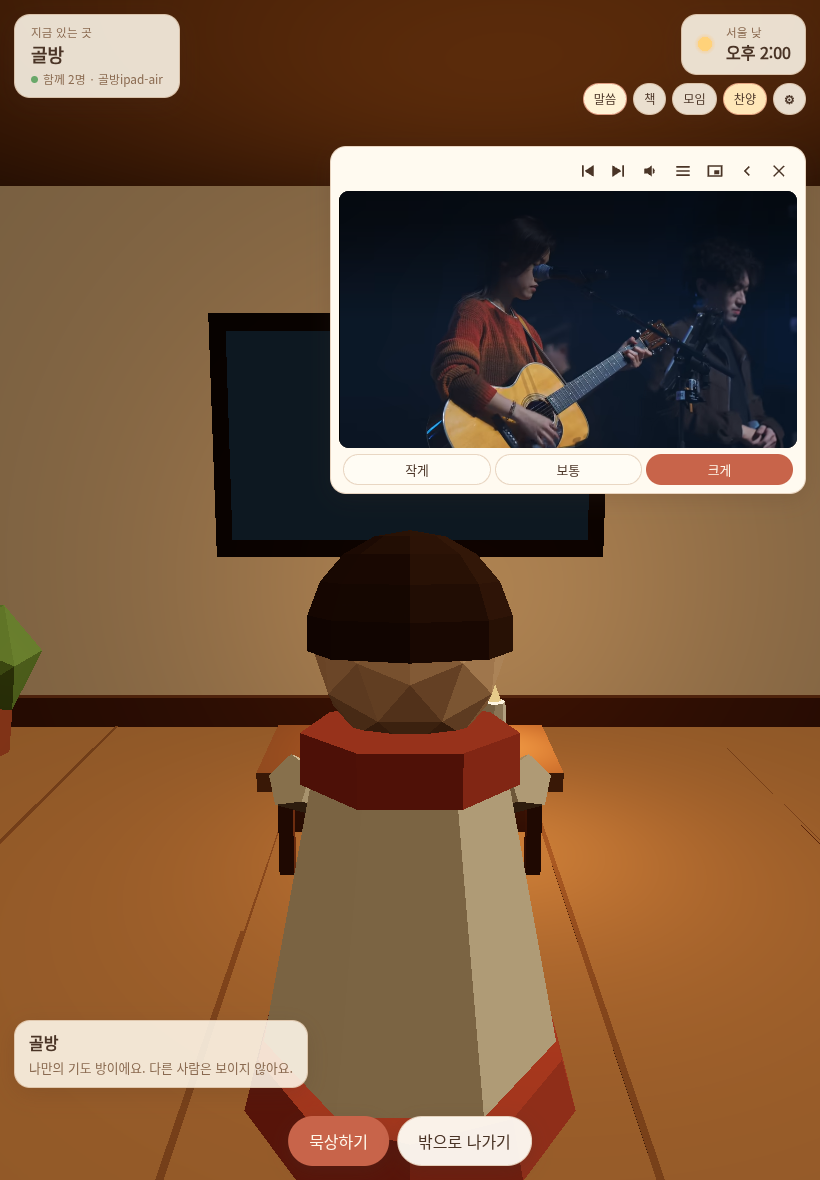
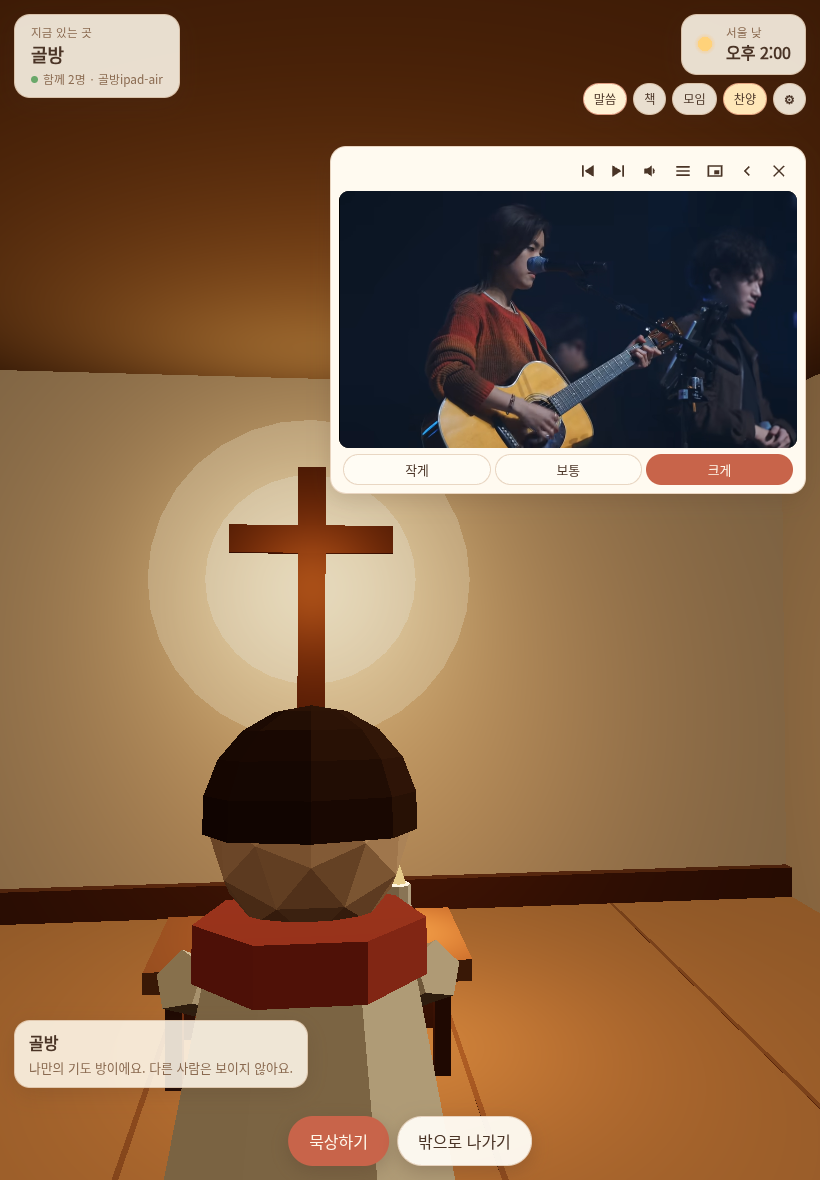
feat(closet): wooden cross with warm halo replaces the wall TV in 골방
Portrait screens aim the room camera higher and slightly right so the cross
shows above the avatar and beside the docked worship player.

Claude-Session: https://claude.ai/code/session_01QsWPXXpkTAwZLNvoEFaFKZ

diff --git a/client/src/world/Interior.ts b/client/src/world/Interior.ts
@@ -7,7 +7,7 @@ const lam = (color: number, extra: THREE.MeshLambertMaterialParameters = {}) =>
 
 /**
  * 골방: a small private room rendered as its own scene, so nobody else is in
- * it. The player sits on a cushion facing a small wall screen (the worship
+ * it. The player sits on a cushion facing a wooden cross on the wall (the worship
  * panel is the DOM overlay); a candle and the window follow the time of day.
  */
 export class Interior {
@@ -22,6 +22,9 @@ export class Interior {
   private yaw = 0;
   private pitch = 0.32;
   private readonly geometries: THREE.BufferGeometry[] = [];
+  /** Portrait phones: aim higher and a little to the right so the cross sits
+   *  above the avatar's head and left of the docked worship player. */
+  private portrait = false;
 
   constructor() {
     const s = this.scene;
@@ -51,9 +54,21 @@ export class Interior {
     add(new THREE.BoxGeometry(0.04, 0.95, 1.25), this.windowPane, 2.93, 1.75, -0.6);
     add(new THREE.BoxGeometry(0.05, 0.95, 0.05), lam(PALETTE.woodDark), 2.92, 1.75, -0.6);
 
-    // Wall screen (the actual video lives in the DOM panel).
-    add(new THREE.BoxGeometry(2.3, 1.4, 0.08), lam(0x3b2c22), 0, 1.75, -2.93);
-    add(new THREE.BoxGeometry(2.1, 1.2, 0.02), new THREE.MeshBasicMaterial({ color: 0x1f2a33 }), 0, 1.75, -2.88);
+    // Wooden cross on the front wall, with a soft warm halo behind it.
+    // (The worship video itself lives in the DOM panel, not on the wall.)
+    const halo = add(
+      new THREE.CircleGeometry(0.95, 32),
+      new THREE.MeshBasicMaterial({ color: 0xffe2a8, transparent: true, opacity: 0.32, depthWrite: false }),
+      0, 1.95, -2.94,
+    );
+    halo.renderOrder = 1;
+    add(new THREE.CircleGeometry(0.62, 32), new THREE.MeshBasicMaterial({ color: 0xfff1cf, transparent: true, opacity: 0.35, depthWrite: false }), 0, 1.95, -2.935);
+    const crossWood = lam(0x7a4e2c);
+    add(new THREE.BoxGeometry(0.16, 1.7, 0.1), crossWood, 0, 1.75, -2.88); // upright
+    add(new THREE.BoxGeometry(0.95, 0.16, 0.1), crossWood, 0, 2.18, -2.87); // crossbeam
+    const crossLight = new THREE.PointLight(0xffd59a, 1.1, 3.2, 1.6);
+    crossLight.position.set(0, 1.9, -2.4);
+    s.add(crossLight);
 
     // Low table with candle and an open Bible.
     add(new THREE.BoxGeometry(1.2, 0.08, 0.6), lam(PALETTE.wood), 0, 0.42, -1.2);
@@ -82,14 +97,15 @@ export class Interior {
     s.add(this.hemi, this.sunLight);
 
     this.avatar.root.position.set(0, 0.1, 0.2);
-    this.avatar.root.rotation.y = Math.PI; // face the screen (-z)
+    this.avatar.root.rotation.y = Math.PI; // face the cross (-z)
     this.avatar.setSeated(true);
     s.add(this.avatar.root);
   }
 
   setAspect(aspect: number) {
     this.camera.aspect = aspect;
-    this.camera.fov = aspect < 0.8 ? 66 : 50;
+    this.portrait = aspect < 0.8;
+    this.camera.fov = this.portrait ? 66 : 50;
     this.camera.updateProjectionMatrix();
   }
 
@@ -110,7 +126,7 @@ export class Interior {
     this.avatar.animate(dt, 0, elapsed);
 
     const dist = 2.4;
-    const target = new THREE.Vector3(0, 1.1, -1.4);
+    const target = this.portrait ? new THREE.Vector3(0.42, 1.85, -1.4) : new THREE.Vector3(0, 1.1, -1.4);
     this.camera.position.set(
       Math.sin(this.yaw) * Math.cos(this.pitch) * dist,
       1.0 + Math.sin(this.pitch) * dist,
